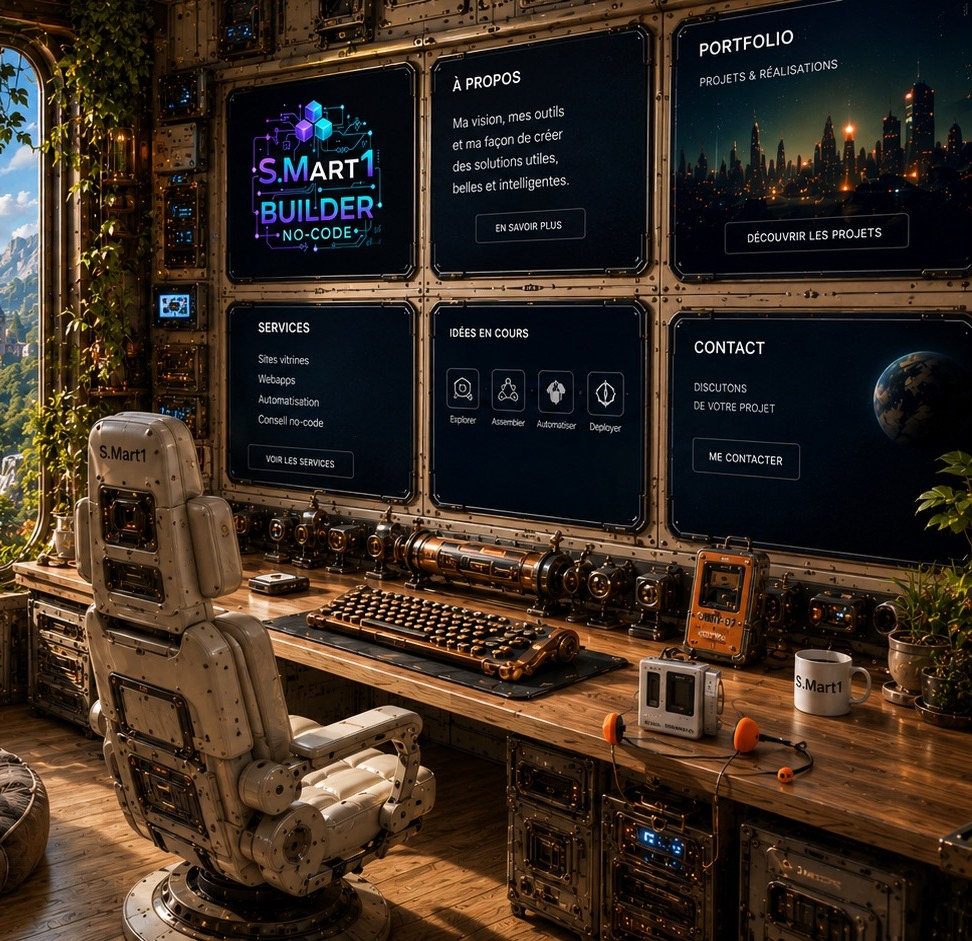
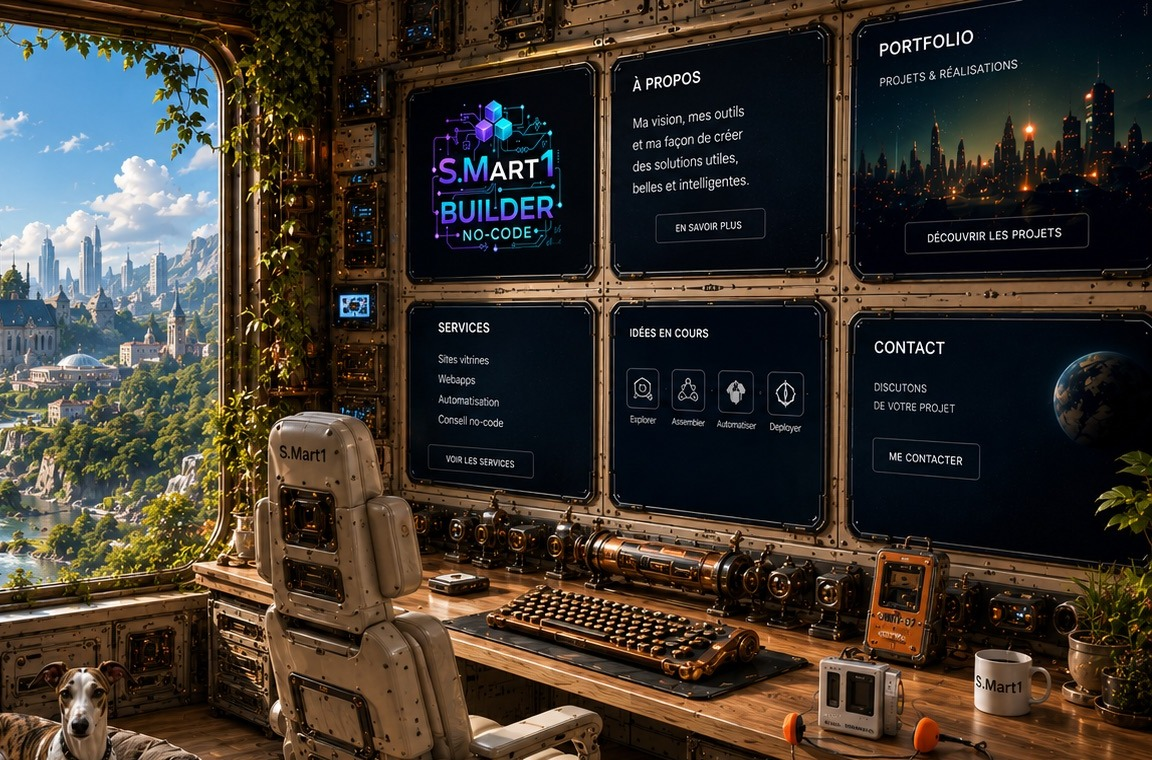
Ajuste le cadrage mobile : ecrans + fauteuil + walkman, sans le menu texte
Nouveau recadrage (ciel/fenetre, les 6 ecrans, le fauteuil et le walkman
sur le bureau), en excluant Jax. Les hotspots sont repositionnes pour
ce cadrage et redeviennent cliquables directement sur la photo, ce qui
rend le menu de secours (.mobile-nav) inutile : supprime entierement
(HTML, CSS, JS). La phrase d'accroche reste, mentionnant le Walkman.

Verifie visuellement (alignement des zones cliquables sur les ecrans)
et fonctionnellement (clic sur chaque ecran, y compris walkman, en
mobile et en prefers-reduced-motion). Desktop inchange.

diff --git a/index.html b/index.html
@@ -37,13 +37,21 @@ html,body{margin:0;background:var(--ink);color:var(--cream);font-family:var(--sa
 #gl{opacity:0;transition:opacity .8s ease}
 #gl.ready{opacity:1}
 
-/* Petits ecrans : on bascule sur un cadrage serre (ecrans + fauteuil)
-   plutot que d'ecraser la scene large en bandeau ; les hotspots de la
-   photo ne correspondent plus a ce cadrage, on s'appuie sur le menu
-   de secours (.mobile-nav) pour l'interaction. */
+/* Petits ecrans : cadrage serre sur les ecrans, le fauteuil et le
+   walkman plutot que la scene large ecrasee en bandeau. Les hotspots
+   sont repositionnes pour ce cadrage (voir plus bas) et restent
+   cliquables directement sur la photo. */
 @media (max-width:640px){
-  .stage{ aspect-ratio:972/941; }
-  .hotspot,#birds{ display:none; }
+  .stage{ aspect-ratio:1152/760; }
+  #birds{ display:none; }
+
+  .spot-logo{ left:35.27%; top:10.52%; width:15.09%; height:26.00%; }
+  .spot-about{ left:52.68%; top:7.43%; width:19.45%; height:29.10%; }
+  .spot-portfolio{ left:74.46%; top:3.10%; width:23.22%; height:34.67%; }
+  .spot-services{ left:35.27%; top:39.00%; width:15.09%; height:26.00%; }
+  .spot-ideas{ left:52.68%; top:39.00%; width:19.45%; height:28.48%; }
+  .spot-contact{ left:74.46%; top:42.10%; width:23.22%; height:27.24%; }
+  .spot-walkman{ left:69.52%; top:79.05%; width:16.69%; height:20%; }
 }
 
 /* ============ HOTSPOTS ============ */
@@ -119,24 +127,6 @@ html,body{margin:0;background:var(--ink);color:var(--cream);font-family:var(--sa
 .hint .blink{color:var(--amber);animation:blink 2.2s steps(2) infinite}
 @keyframes blink{50%{opacity:.25}}
 @media (prefers-reduced-motion: reduce){.hint .blink{animation:none}}
-
-/* Petits ecrans : les zones cliquables de la photo deviennent trop
-   fines pour un doigt. On ajoute un menu de secours, lisible et
-   tres facile a toucher, sous la scene. */
-.mobile-nav{
-  display:none;
-  max-width:520px;margin:18px auto 0;padding:0 16px;
-  grid-template-columns:repeat(2,1fr);gap:10px;
-}
-.mobile-nav button{
-  font-family:var(--mono);font-size:.82rem;font-weight:700;letter-spacing:.03em;
-  color:var(--cream);background:#1c150e;border:1px solid var(--line);border-radius:8px;
-  padding:14px 10px;min-height:48px;cursor:pointer;
-}
-.mobile-nav button:active{background:#241b12;border-color:var(--amber-dim)}
-@media (max-width:640px){
-  .mobile-nav{display:grid}
-}
 
 footer{
   text-align:center;padding:26px 0 50px;color:var(--text-dim);
@@ -261,15 +251,6 @@ footer .credit{font-size:.62rem;opacity:.6}
 </div>
 
 <p class="hint"><span class="blink">▮</span> CLIQUEZ SUR LES ÉCRANS ET LE WALKMAN POUR EXPLORER</p>
-
-<nav class="mobile-nav" aria-label="Navigation rapide">
-  <button id="navAbout">À propos</button>
-  <button id="navPortfolio">Portfolio</button>
-  <button id="navServices">Services</button>
-  <button id="navContact">Contact</button>
-  <button id="navWalkman">🎧 Musique</button>
-  <button id="navIdeas">Idées en cours</button>
-</nav>
 
 <footer>
   S.MART1 BUILDER · STÉPHANE MARTIN · 2026<br>
@@ -726,18 +707,6 @@ footer .credit{font-size:.62rem;opacity:.6}
     formStatus.style.color = '';
     formStatus.textContent = 'Envoi direct, sans passer par votre messagerie.';
   });
-
-  /* Menu de secours mobile : reutilise exactement les memes actions */
-  function relay(navId, btnId){
-    var nav = document.getElementById(navId);
-    if(nav) nav.addEventListener('click', function(){ document.getElementById(btnId).click(); });
-  }
-  relay('navAbout','btnAbout');
-  relay('navPortfolio','btnPortfolio');
-  relay('navServices','btnServices');
-  relay('navContact','btnContact');
-  relay('navIdeas','btnIdeas');
-  relay('navWalkman','btnWalkman');
 
   document.getElementById('btnLegal').addEventListener('click', function(){
     openModal(document.getElementById('modalLegal'), this);
